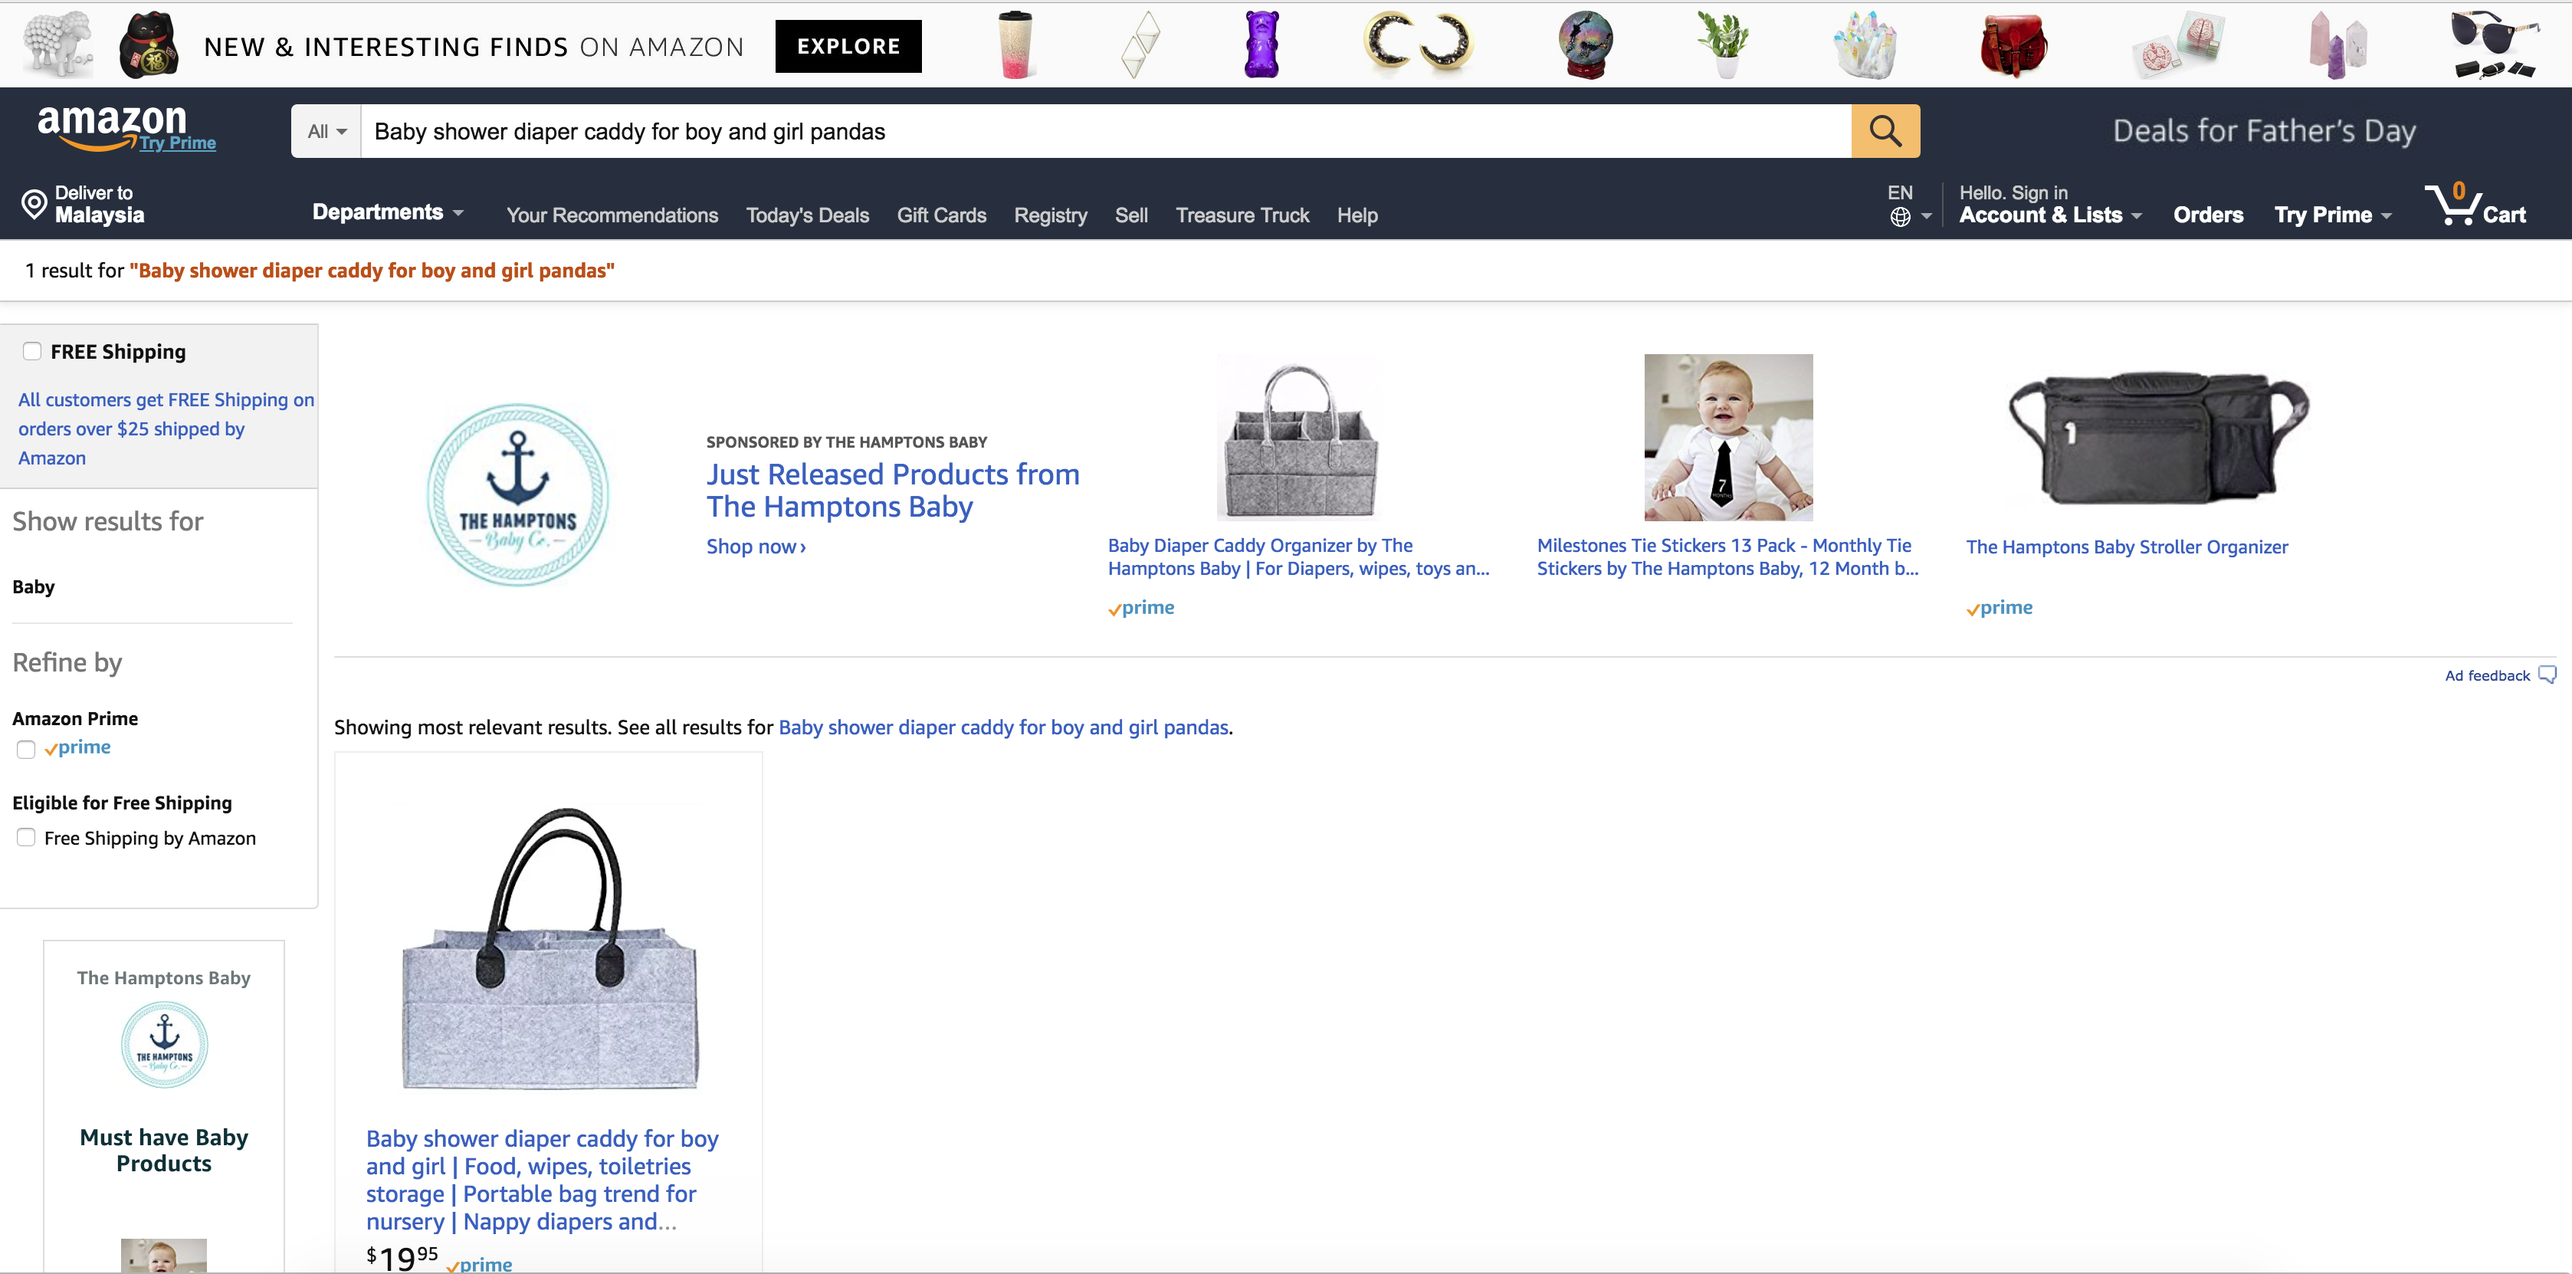
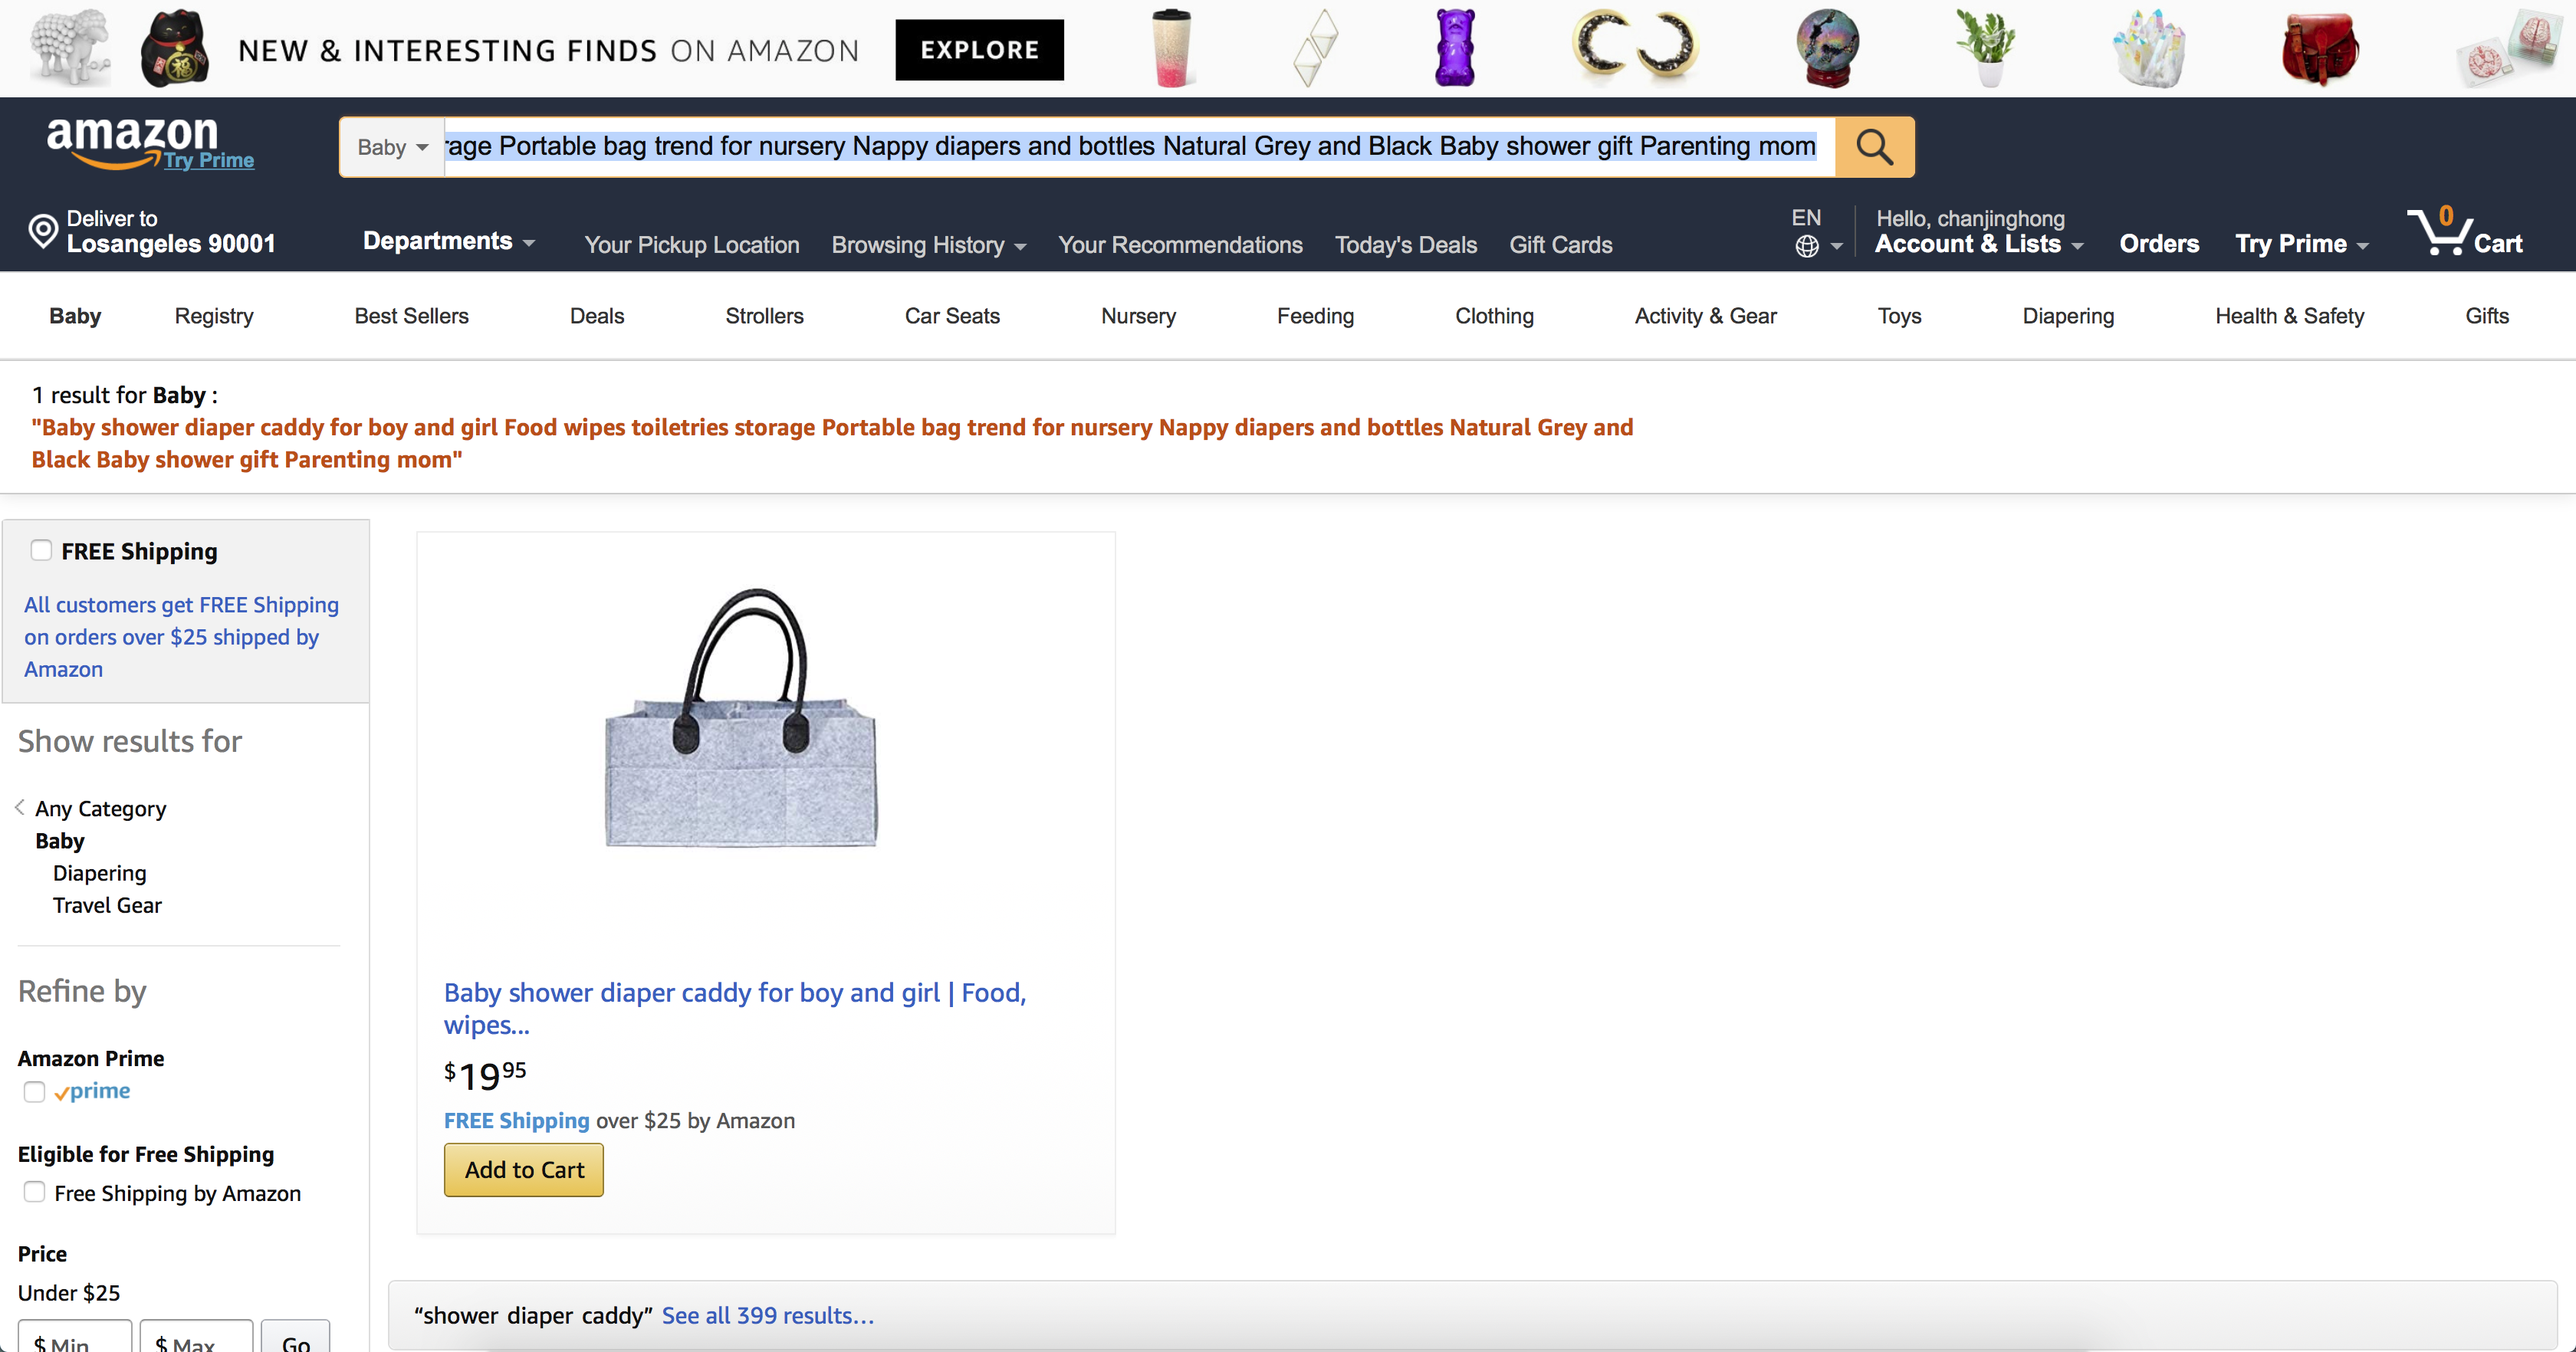
Modified search term

diff --git a/_posts/2016-05-19-diaper-caddy-reviews.md b/_posts/2016-05-19-diaper-caddy-reviews.md
@@ -5,7 +5,7 @@ categories: misc
 ---
 
 1. Go to [Amazon.com](https://www.amazon.com/)
-2. On the search bar, search for **“Baby shower diaper caddy for boy and girl pandas”**
+2. On the search bar, search for **“Baby shower diaper caddy for boy and girl Food wipes toiletries storage Portable bag trend for nursery Nappy diapers and bottles Natural Grey and Black Baby shower gift Parenting mom”**
 ![Search baby shower diaper caddy for boy and girl pandas on Amazon](/assets/DiaperCaddy/search_term.png)
 
 3. Click on the first result
